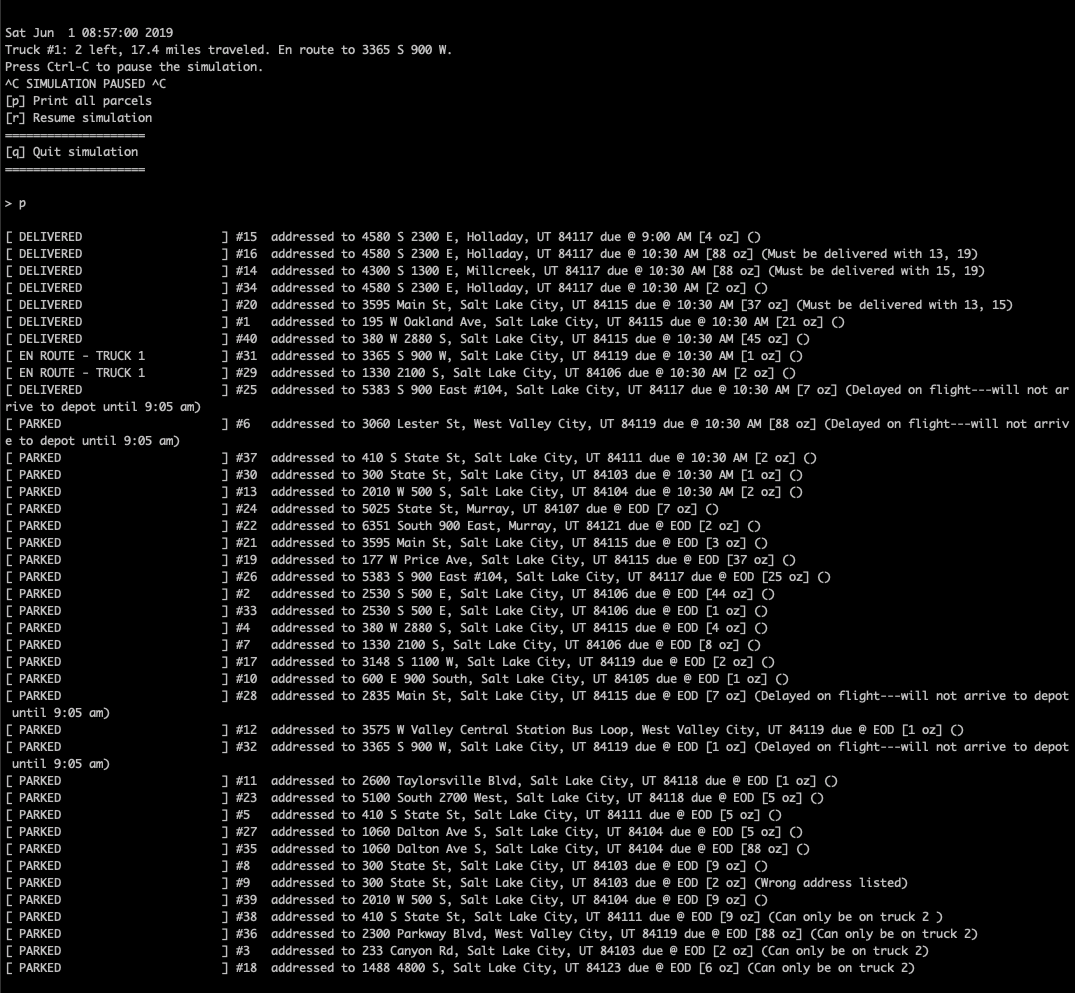
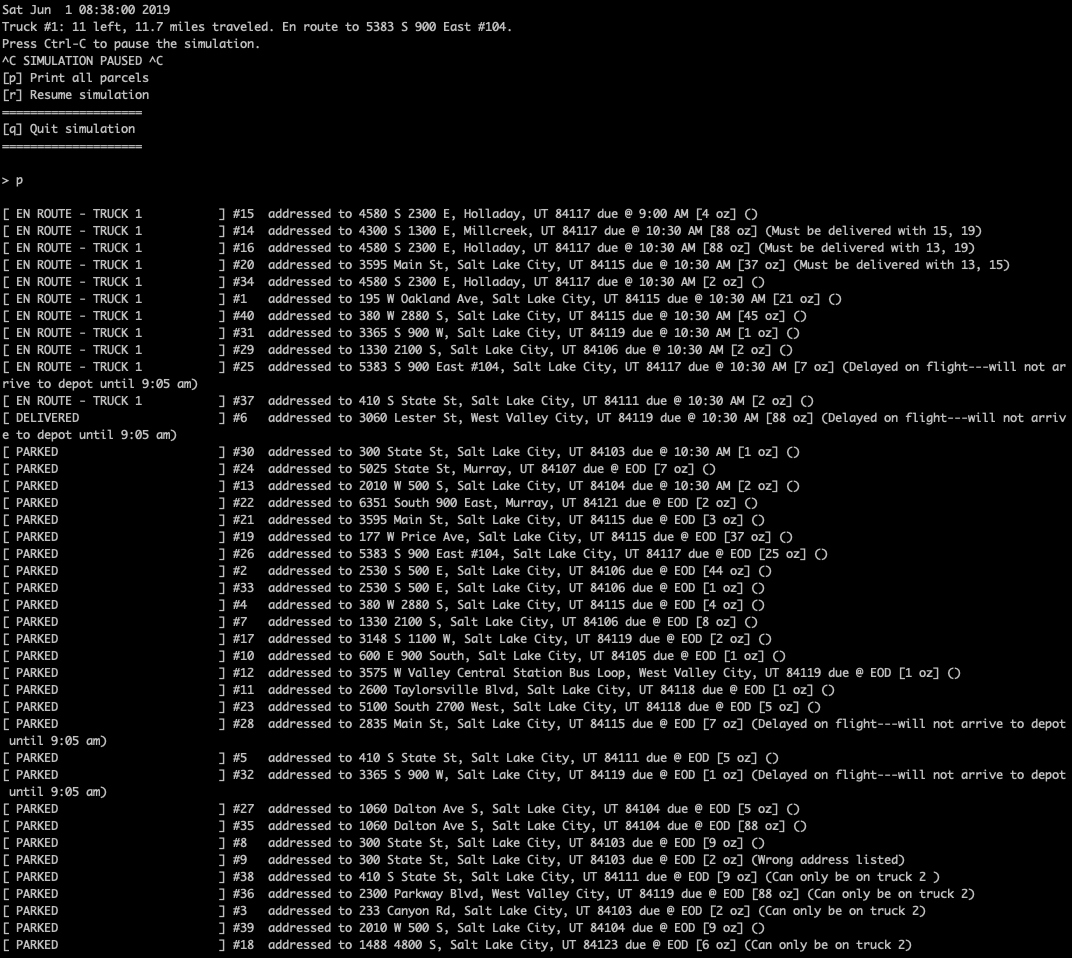
Adhoc | Finally.

Changed region(s): [[0.1847, 0.2119, 1.0, 0.999], [0.0, 0.0, 0.4618, 0.999]]

diff --git a/src/main.py b/src/main.py
@@ -44,18 +44,19 @@ class Application:
         truck_1 = Truck(1, 'Driver 1', 16, hub_node)
         truck_3 = Truck(3, None, 16, hub_node)
         
-        for item in self.pqueue.contents()[0:9]:
+        for item in self.pqueue.contents()[0:12]:
             # For each package in the slice, we load it into the truck and update it on the queue.
             truck_1.load_package(item.value)
             self.update_packages({ 'id': item.identifier, 'status': 'EN ROUTE - TRUCK 1' })
-            
+
+        truck_1.sort_packages_by_distance(self.route_graph)
         self.trucks.append(truck_1)
             
         print('Syncing clock.')
         self.current_time = datetime.datetime(2019, 6, 1, 8, 0, 0).timestamp()
         print('Starting timer.')
-        # self.app_clock = clock.Clock(600, 1, 600, is_repeating=True)
-        self.app_clock = clock.Clock(1, 1, 0, is_repeating=True)
+        self.app_clock = clock.Clock(600, 1, 600, is_repeating=True)
+        # self.app_clock = clock.Clock(1, 1, 0, is_repeating=True)
         self.app_clock.start()
 
         print('Beginning application.')
@@ -148,6 +149,7 @@ class Application:
                                     # For each item in the group of packages, load them into the truck.
                                     truck.load_package(item.value)
                                     self.update_packages({ 'id': item.identifier, 'status': f'EN ROUTE - TRUCK {truck.id}' })
+                                truck.sort_packages_by_distance(self.route_graph)
                             elif truck.times_resupplied == 1:
                                 # If the truck has already resupplied once, it's done.
                                 truck.done()
@@ -158,9 +160,10 @@ class Application:
                     if self.current_time == flight_arrival:
                         # When the flight arrives and we have all the packages, we send out the other truck.
                         truck_2 = Truck(2, 'Driver 2', 16, self.route_graph.get_node_by_address('Hub'))
-                        for item in self.pqueue.contents()[9:21]:
+                        for item in self.pqueue.contents()[12:21]:
                             truck_2.load_package(item.value)
                             self.update_packages({ 'id': item.identifier, 'status': 'EN ROUTE - TRUCK 2' })
+                        truck_2.sort_packages_by_distance(self.route_graph)
                         self.trucks.append(truck_2)
                     if self.current_time == information_update_time:
                         self.update_packages({ 'id': '9', 'address': '410 S State St', 'city': 'Salt Lake City', 'state': 'UT', 'zip_code': '84111', 'special_notes': '' })

diff --git a/src/utils/entities.py b/src/utils/entities.py
@@ -120,11 +120,11 @@ class Truck:
 
     def load_package(self, package, priority = 0):
         # This loads the package into the truck and sorts it again to ensure the weighting is maintained.
+        highest_priority = lambda item: item.deadline_timestamp + priority - 5000 if 'Delayed' in item.special_notes else item.deadline_timestamp + priority
+        self.packages.sort(key = highest_priority)
         self.packages.append(package)
-        get_priority = lambda item: item.deadline_timestamp + priority - 5000 if 'Delayed' in item.special_notes else item.deadline_timestamp + priority
-        self.packages.sort(key = get_priority)
 
-    def deliver_package(self, pqueue, current_time):
+    def deliver_package(self, route_graph, pqueue, current_time):
         # If we've reached our destination, attempt to deliver the appropriate packages.
         if len(self.packages) <= 0:
             return
@@ -142,7 +142,14 @@ class Truck:
                 return
         
             queue[queue_index].value.status = 'DELIVERED LATE' if current_time > package_to_deliver.deadline_timestamp else 'DELIVERED'
+        self.sort_packages_by_distance(route_graph)
 
+    def sort_packages_by_distance(self, route_graph):
+        def closest_distance(package):
+            distance = float(route_graph.get_edge_by_addresses(self.current_node.address, package.address).distance)
+            return distance * -1 if 'Delayed' in package.special_notes else distance 
+        self.packages.sort(key = closest_distance)
+            
     def get_current_progress(self):
         # This returns a formatted string based on the truck's progress.
         truck_id = self.id
@@ -184,7 +191,7 @@ class Truck:
         if self.remaining_distance <= 0:
             # If we've reached the destination, deliver the packages and wait.
             self.current_node = self.next_node
-            self.deliver_package(pqueue, current_time)
+            self.deliver_package(route_graph, pqueue, current_time)
             self.next_node = None
         
     def done(self):
